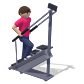
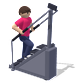
운동기록 프로토타입 v1.39.2 — 운동 예시 그림 7차(디자인봇 nijim_exercise_art_v7_machine_ref_20261111 final, 머신 실물 레퍼런스): incline_cp·chest_press·vsquat·stepmill·glute_kb·assist_pullup 6칸 18장만 교체(나머지 243장 동일) · VER v1.39.2(이미지 캐시키) · 되돌릴 곳 5b4cc27

diff --git a/app.js b/app.js
@@ -2,7 +2,7 @@
 /* v1.12 — v1.11(C안 1/4 고객 앱 기록 흐름 전부) + 결정 33: 아이템 경험치는 한도 없음(운동 경험치만 하루 600·주 1,800).
    경험치·레벨·표정·랭킹 계산은 engine.js 한 곳(CFG·sessionXP·capGain·applyXP·judgeIntensity·exprFor·forecastWeek). 이 파일은 화면만 */
 const KEY = 'nijim_workout_proto_v111';
-const VER = 'v1.39.1';
+const VER = 'v1.39.2';
 /* 확정 12종(결정 22~25) — design v13 정본 · 레벨 띠 11컷 · 표정 5종. 12종 모두 처음부터 선택 가능(결정 25) */
 const CH = {
   mungchi:   { name: '뭉치', josa: '가', intro: '느긋하고 솔직한 땀방울 슬라임' },
